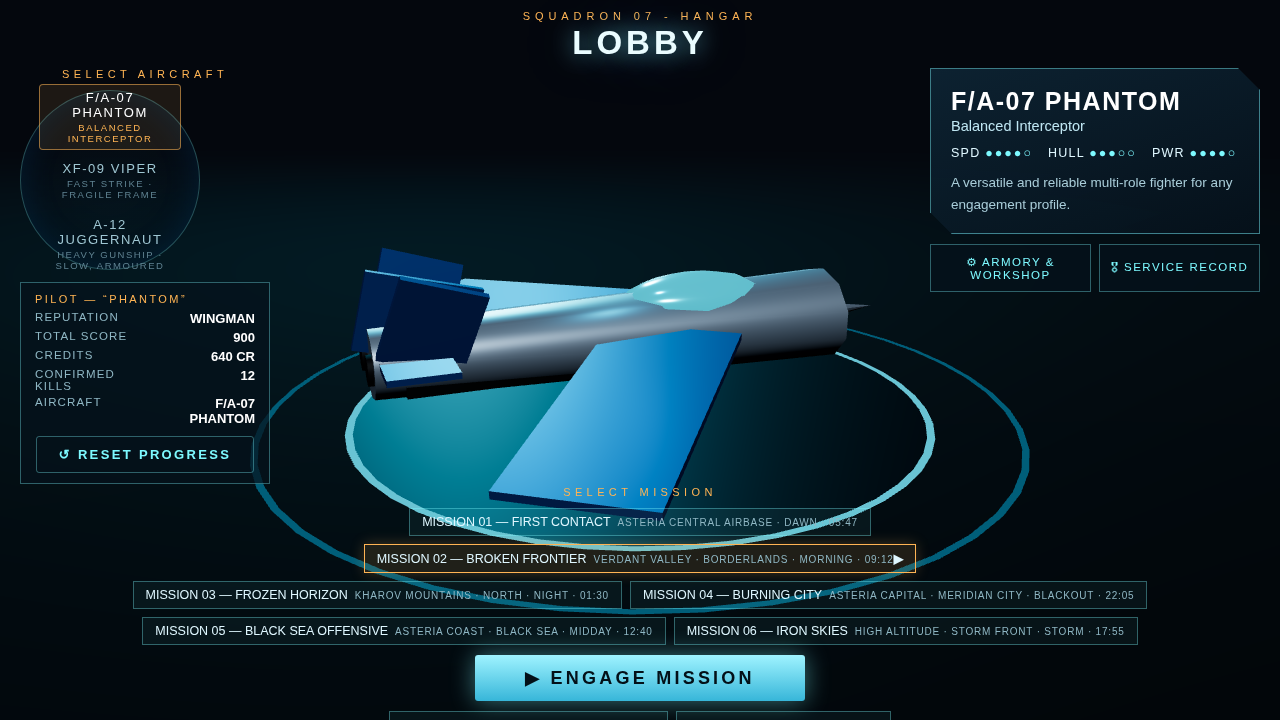
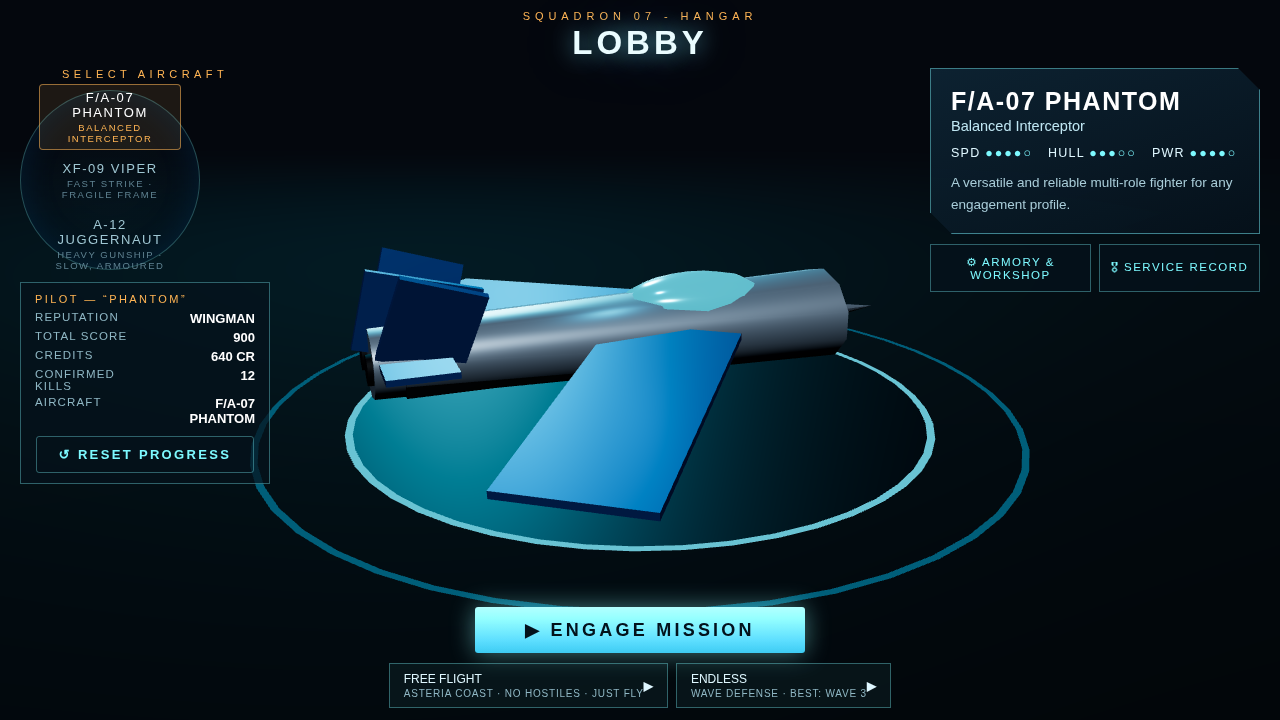
Cleaner lobby: missions move behind ENGAGE MISSION (new SELECT MISSION screen); hangar jet can be drag-rotated left/right

Changed region(s): [[0.125, 0.6722, 0.875, 1.0], [0.5312, 0.6111, 0.5625, 0.6417]]

diff --git a/index.html b/index.html
@@ -75,8 +75,8 @@
   .medal.locked{opacity:.42;filter:grayscale(.8)}
 
   /* ---------- hangar lobby (3D stage, concept layout) ---------- */
-  #screen-lobby{padding:0;overflow:hidden;background:#04070d}
-  #hangar-canvas{position:absolute;inset:0;width:100%;height:100%}
+  #screen-lobby{padding:0;overflow:hidden;background:#04070d;touch-action:pan-y}
+  #hangar-canvas{position:absolute;inset:0;width:100%;height:100%;cursor:grab}
   .hangar-ui{position:relative;z-index:2;width:100%;height:100%;display:flex;flex-direction:column;padding:10px 20px 12px;overflow-y:auto}
   .hangar-ui button{pointer-events:auto}
   .hangar-head{text-align:center;pointer-events:none}
@@ -110,9 +110,7 @@
     letter-spacing:.13em;text-transform:uppercase;color:var(--hud);background:rgba(6,18,28,.72);border:1px solid var(--line)}
   .hangar-actions button:hover{border-color:var(--amber);color:#fff}
   .hangar-bottom{text-align:center}
-  #lobby-missions{display:flex;gap:8px;justify-content:center;flex-wrap:wrap;max-width:1020px;margin:0 auto}
-  #lobby-missions .mission-btn{width:auto;margin-top:0;padding:6px 12px;font-size:12.5px}
-  #lobby-missions .mission-btn small{display:inline;margin:0 0 0 7px;font-size:10px}
+  #lobby-missions{margin-top:10px;text-align:left}
   .btn.engage{margin-top:10px;padding:12px 50px;font-size:clamp(15px,2.6vw,18px)}
   .mode-row{display:flex;gap:8px;justify-content:center;margin-top:10px;flex-wrap:wrap}
   .mode-row .mission-btn{width:auto;margin-top:0;padding:8px 14px;font-size:12px}
@@ -296,8 +294,6 @@
       </div>
     </div>
     <div class="hangar-bottom">
-      <div class="hangar-label" style="text-align:center">Select Mission</div>
-      <div id="lobby-missions"></div>
       <div><button class="btn engage" id="btn-lobby-launch">▶ ENGAGE MISSION</button></div>
       <div class="mode-row">
         <button class="mission-btn" id="btn-mode-free"><span>FREE FLIGHT<small>ASTERIA COAST · NO HOSTILES · JUST FLY</small></span><b>▶</b></button>
@@ -323,6 +319,17 @@
         <div id="lobby-medals"></div>
       </div>
     </div>
+  </div>
+</div>
+
+<!-- ================= MISSION SELECT ================= -->
+<div id="screen-missions" class="screen hidden">
+  <div class="panel">
+    <div class="kicker">Squadron 07 · Operations</div>
+    <h2>SELECT MISSION</h2>
+    <p class="obj" style="margin:8px 0 4px">Choose your sortie. Locked missions open as you clear the campaign.</p>
+    <div id="lobby-missions"></div>
+    <div class="center"><button class="btn ghost" id="btn-missions-back">← Back to Hangar</button></div>
   </div>
 </div>
 
@@ -1729,8 +1736,28 @@ function initHangar() {
   ring.rotation.x = -Math.PI / 2; ring.position.y = 0.04; sc.add(ring);
   const ring2 = new THREE.Mesh(new THREE.RingGeometry(6.9, 7.02, 48), new THREE.MeshBasicMaterial({ color: 0x1d5f74 }));
   ring2.rotation.x = -Math.PI / 2; ring2.position.y = 0.03; sc.add(ring2);
-  hangar = { r, sc, cam, jet: null, t: 0, w: 0, h: 0, running: false };
+  hangar = { r, sc, cam, jet: null, t: 0, w: 0, h: 0, running: false, userRot: -0.55, dragging: false, dragX: 0 };
+  window.__hangar = hangar;
   setHangarJet(SAVE.jet || 'phantom');
+  setupHangarDrag();
+}
+// Drag left/right on the open hangar stage to turn the aircraft.
+function setupHangarDrag() {
+  const stage = el('screen-lobby');
+  const okTarget = (t) => t === el('hangar-canvas') || t.classList.contains('hangar-ui') || t.classList.contains('hangar-mid') || t.classList.contains('hangar-bottom');
+  stage.addEventListener('pointerdown', e => {
+    if (state !== 'lobby' || !hangar || !okTarget(e.target)) return;
+    hangar.dragging = true; hangar.dragX = e.clientX;
+    try { stage.setPointerCapture(e.pointerId); } catch (_) {}
+  });
+  stage.addEventListener('pointermove', e => {
+    if (!hangar || !hangar.dragging) return;
+    hangar.userRot += (e.clientX - hangar.dragX) * 0.01;
+    hangar.dragX = e.clientX;
+  });
+  const end = () => { if (hangar) hangar.dragging = false; };
+  stage.addEventListener('pointerup', end);
+  stage.addEventListener('pointercancel', end);
 }
 function setHangarJet(id) {
   if (!hangar) return;
@@ -1742,7 +1769,7 @@ function setHangarJet(id) {
   g.userData.flames.forEach(f => { f.visible = false; });
   g.scale.multiplyScalar(0.92);
   g.position.y = 1.55;
-  g.rotation.y = -0.55;
+  g.rotation.y = hangar.userRot;
   hangar.jet = g;
   hangar.sc.add(g);
 }
@@ -1761,7 +1788,7 @@ function startHangar() {
     }
     hangar.t += 0.016;
     if (hangar.jet) {
-      hangar.jet.rotation.y = -0.55 + Math.sin(hangar.t * 0.35) * 0.3;
+      hangar.jet.rotation.y = hangar.userRot + (hangar.dragging ? 0 : Math.sin(hangar.t * 0.35) * 0.12);
       hangar.jet.position.y = 1.55 + Math.sin(hangar.t * 1.3) * 0.07;
     }
     hangar.r.render(hangar.sc, hangar.cam);
@@ -1776,7 +1803,7 @@ document.querySelectorAll('.drawer-close').forEach(b => b.addEventListener('clic
 // 8. FLOW — screens, launch, debrief, upgrades
 // ================================================================
 function showScreen(id) {
-  for (const s of ['screen-start', 'screen-lobby', 'screen-brief', 'screen-debrief', 'screen-end']) el(s).classList.add('hidden');
+  for (const s of ['screen-start', 'screen-lobby', 'screen-missions', 'screen-brief', 'screen-debrief', 'screen-end']) el(s).classList.add('hidden');
   if (id) el(id).classList.remove('hidden');
   el('hud').classList.toggle('hidden', id !== null);
   el('touch').classList.toggle('hidden', !(id === null && IS_TOUCH));
@@ -2027,13 +2054,17 @@ function showLobby(keepScroll) {
     const cleared = i < SAVE.unlocked || (i === 5 && SAVE.unlocked >= 5 && false);
     b.disabled = locked;
     b.innerHTML = `<span>${m.name}<small>${m.loc} · ${m.time}</small></span><b>${locked ? '🔒' : i === SAVE.mission ? '▶' : ''}</b>`;
-    b.addEventListener('click', () => { SAVE.mission = i; SoundFX.lockBeep(); showLobby(true); });
+    b.addEventListener('click', () => { SAVE.mission = i; saveGame(); SoundFX.lockBeep(); showBrief(i); });
     list.appendChild(b);
   });
   renderUpgrades(el('lobby-upgrades'));
   renderServiceRecord();
   showScreen('screen-lobby');
   startHangar();
+}
+function showMissions() {
+  state = 'missions';
+  showScreen('screen-missions');
 }
 // ---------------- service record: medals + statistics ----------------
 function fmtFlightTime(sec) {
@@ -2228,7 +2259,8 @@ el('btn-start').addEventListener('click', () => {
   SoundFX.radio();
   showLobby();
 });
-el('btn-lobby-launch').addEventListener('click', () => showBrief(SAVE.mission));
+el('btn-lobby-launch').addEventListener('click', () => showMissions());
+el('btn-missions-back').addEventListener('click', () => showLobby());
 el('btn-mode-free').addEventListener('click', () => launchMode('free'));
 el('btn-mode-endless').addEventListener('click', () => launchMode('endless'));
 let resetArmed = false;
